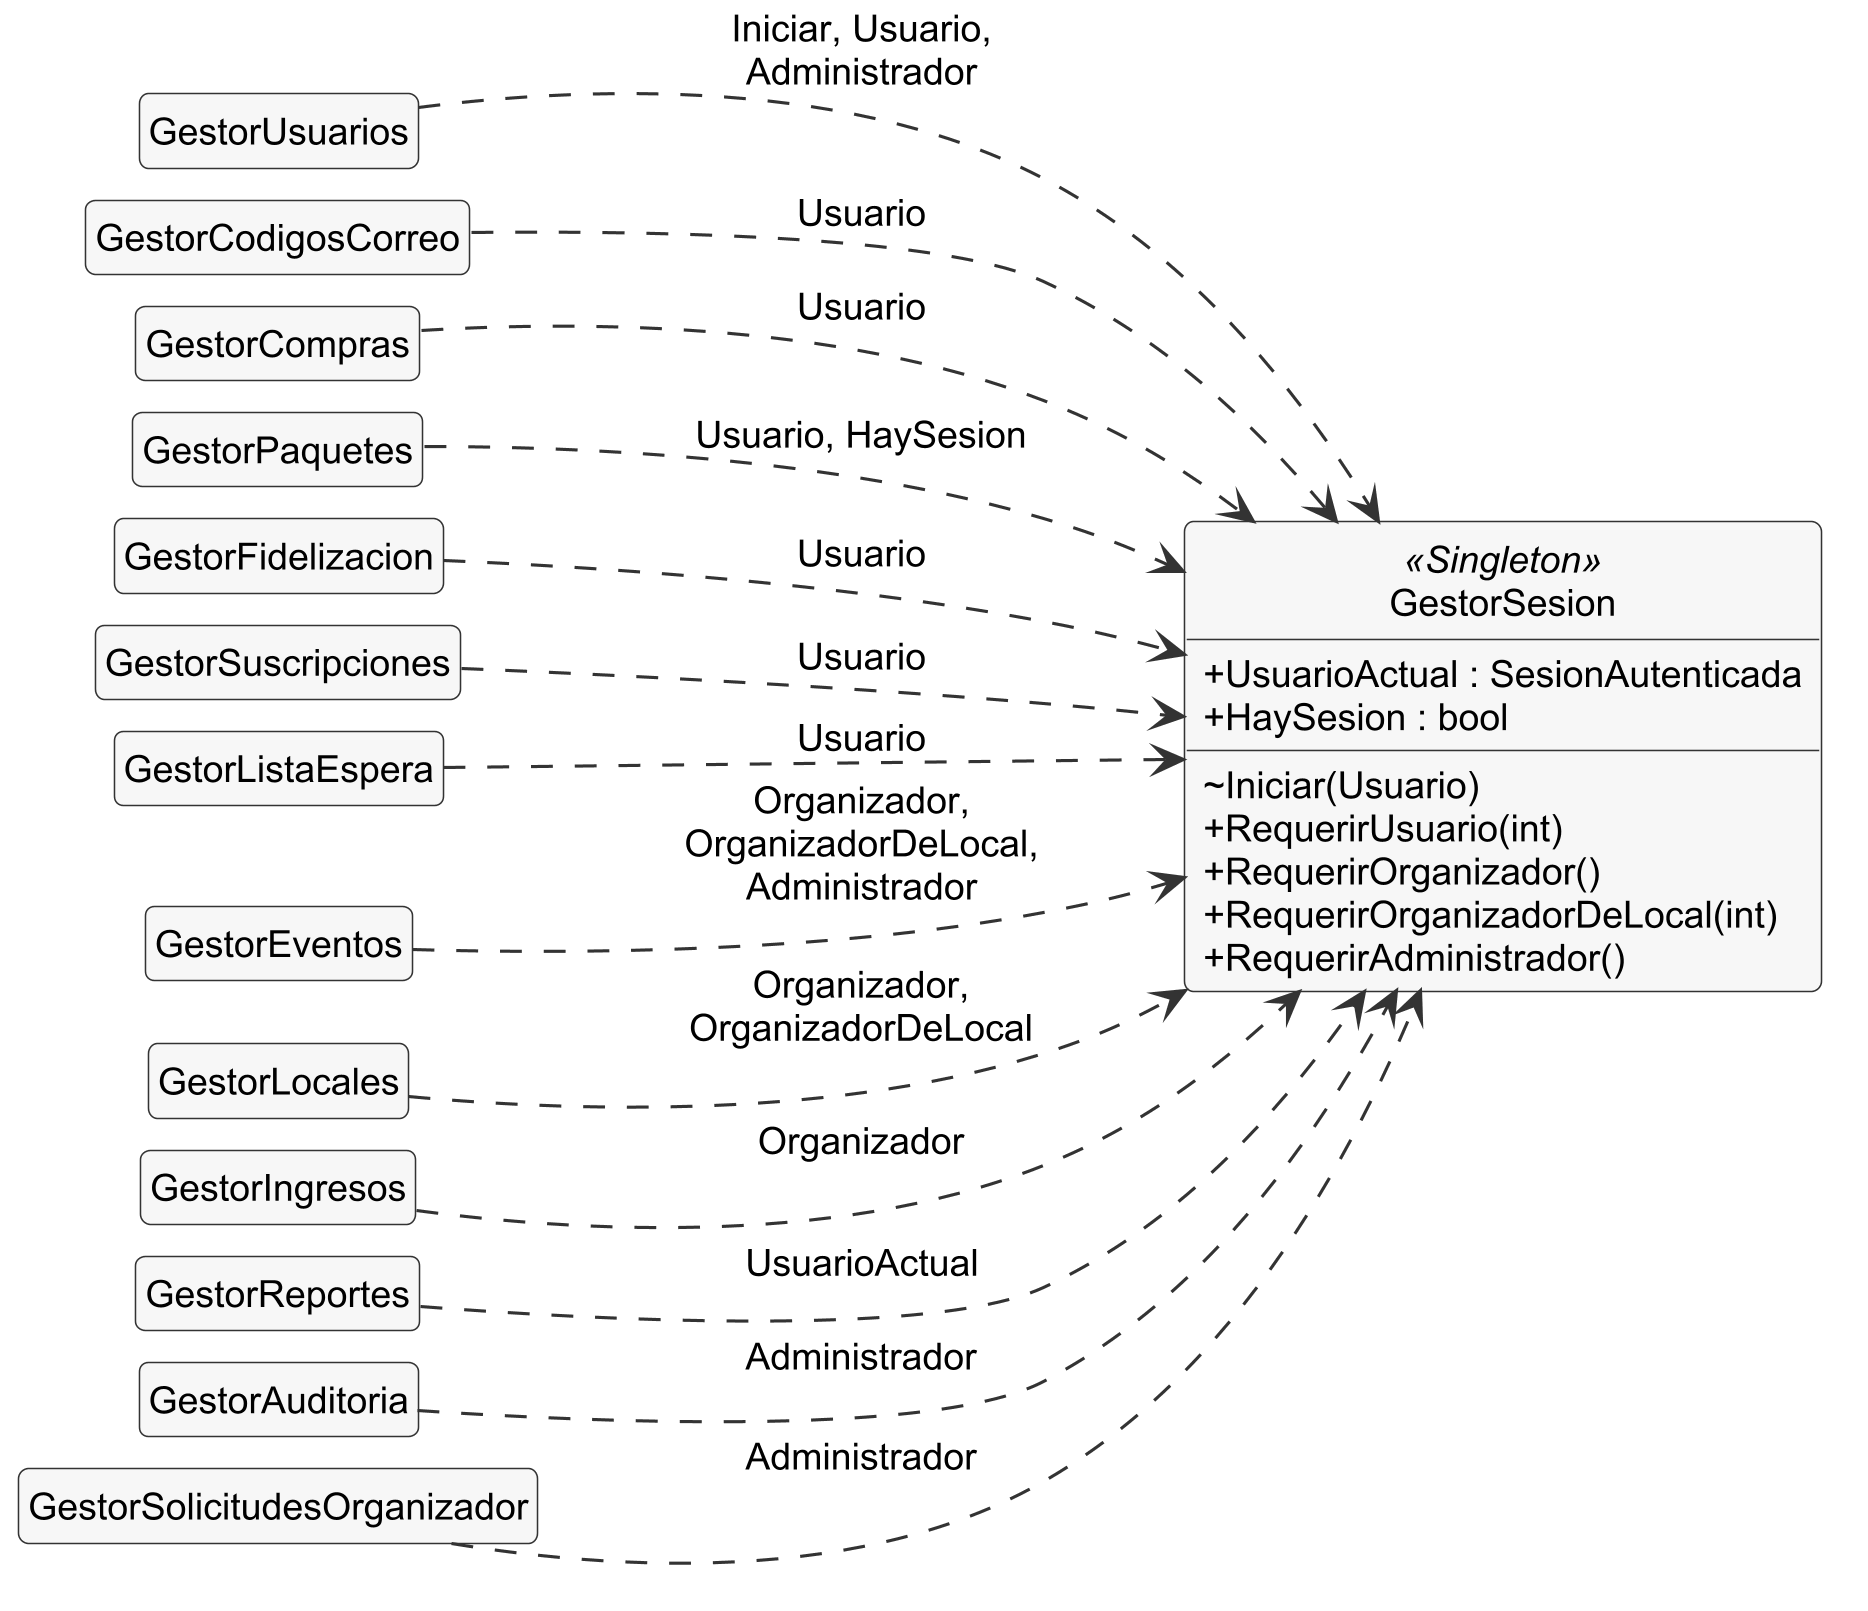
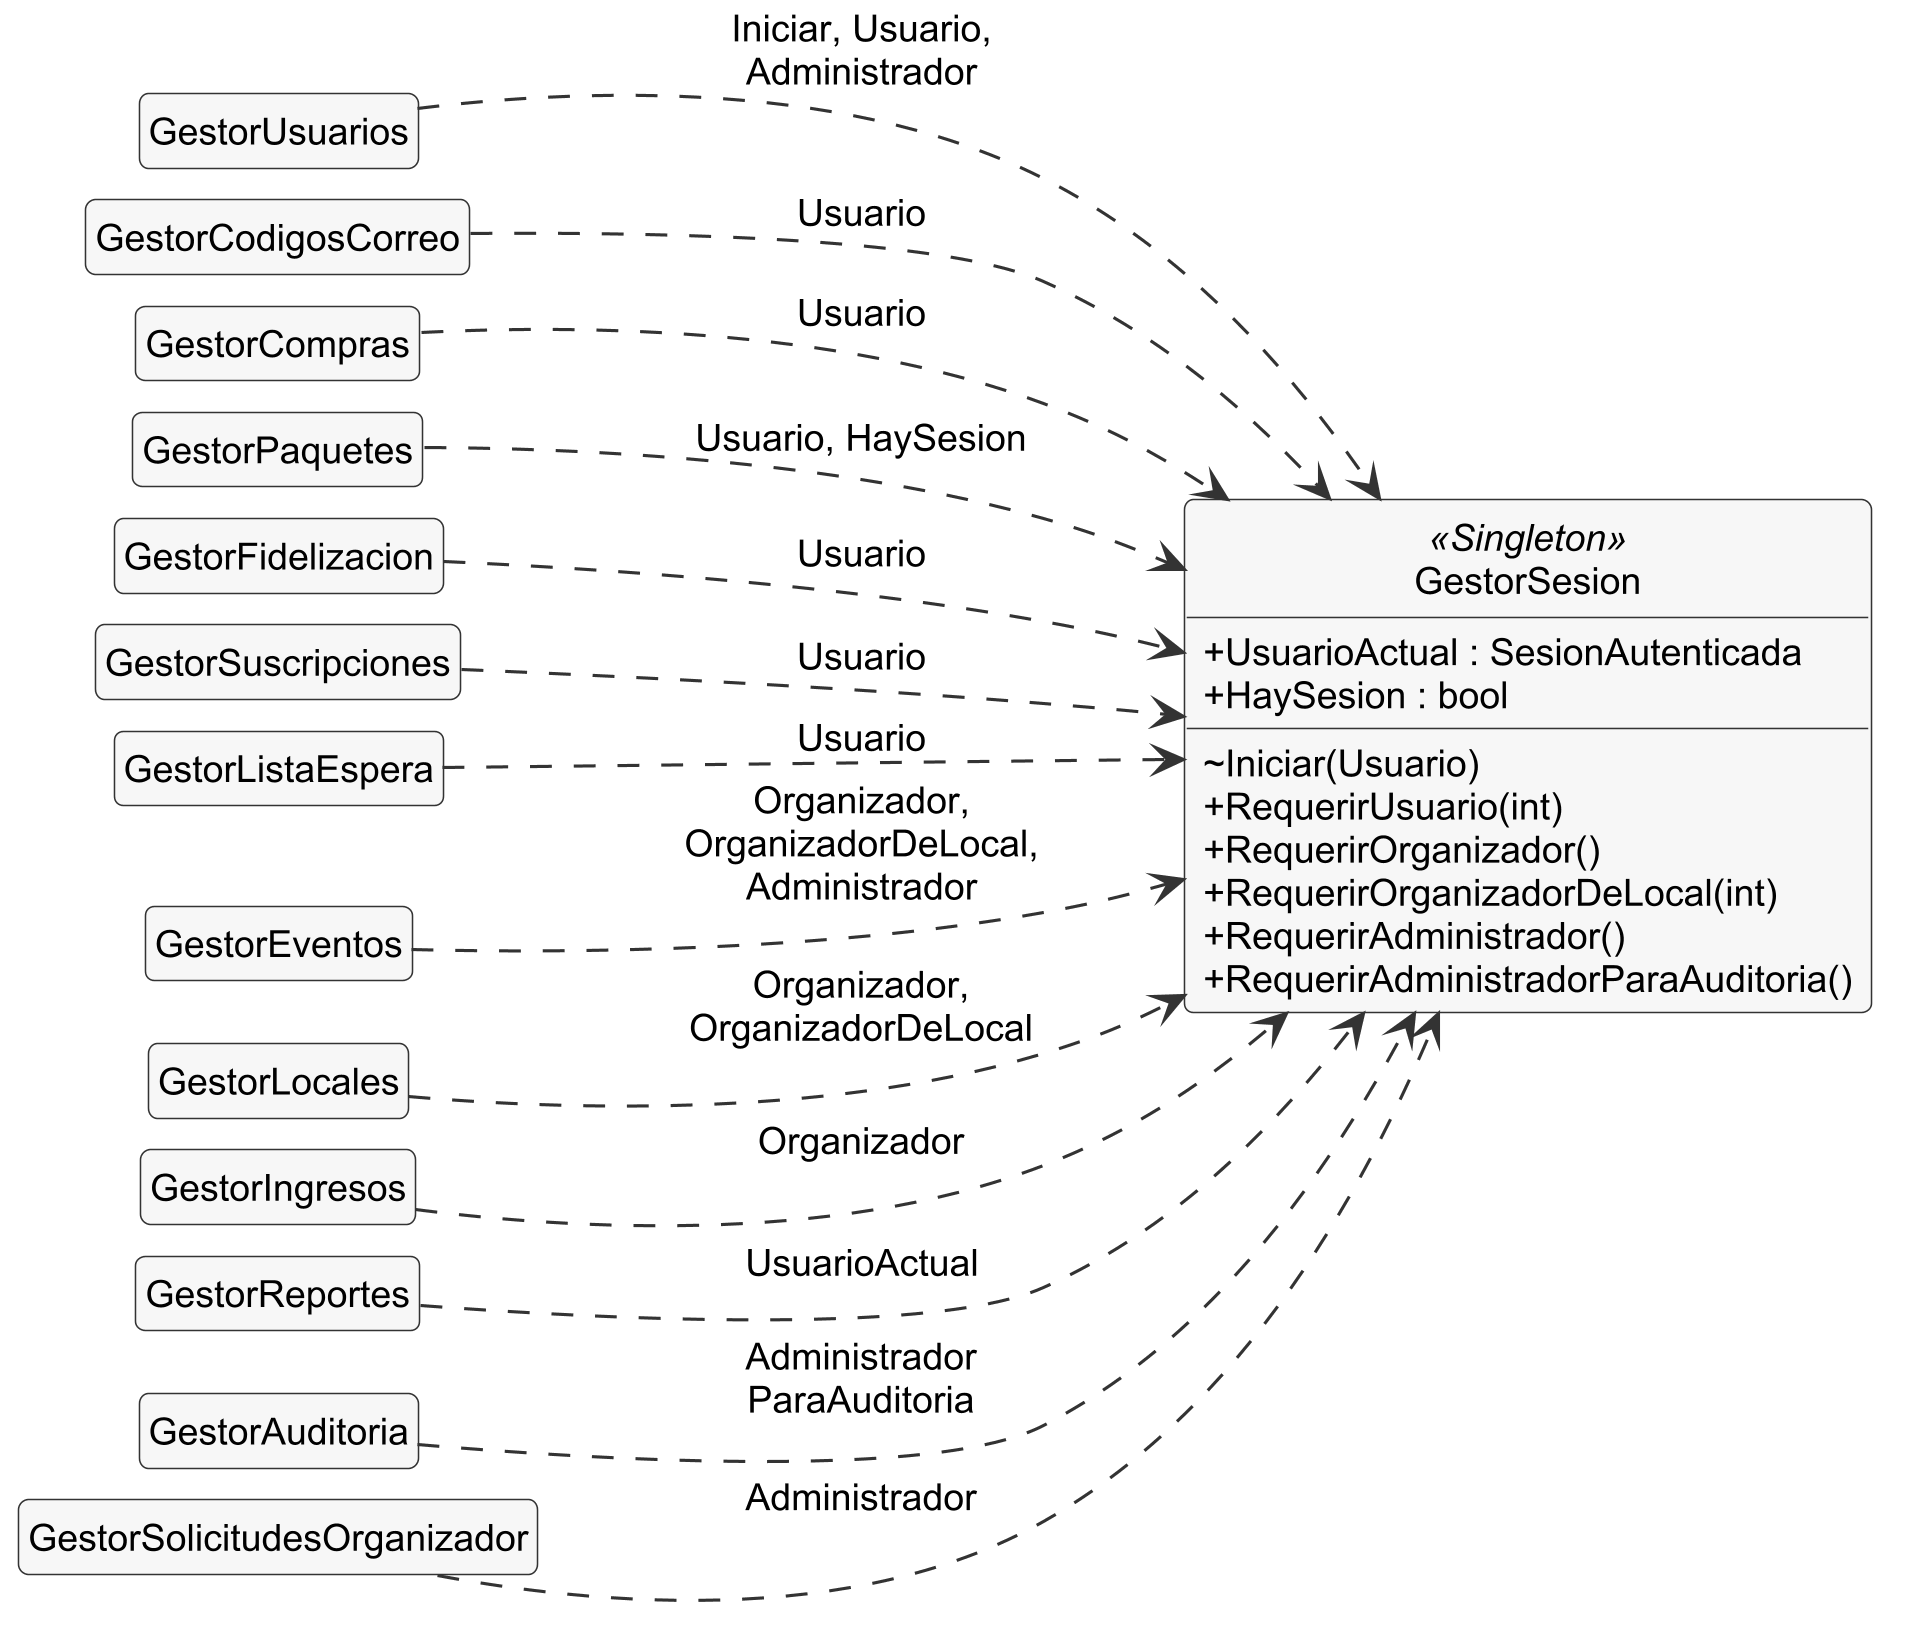
docs(diagramas): RN-45 en la consulta de auditoría y FK del dueño del local
- Vistas 5b, 6 y 6b con RequerirAdministradorParaAuditoria (2ffca70); CU-20 con su mensaje.
- Entidad-relación, vista 1: Usuario–Locales continua con FK_Locales_Propietario (script 16).

diff --git a/docs/PARA-MAXIMO-DIAGRAMAS.md b/docs/PARA-MAXIMO-DIAGRAMAS.md
@@ -170,9 +170,9 @@ perfiles; el 19/11 se agregó la vista 6b, la escritura de la auditoría.
 | 3. Dominio: entrada y seguro | `clases-3-dominio-entrada` | **16,0 cm** (13,2) | 11,8 pt |
 | 4. Negocio: gestores de la compra | `clases-4-negocio-compra` | **16,0 cm** (18,7) | 8,5 pt |
 | 5. Negocio: administración | `clases-5-negocio-administracion` | **16,0 cm** (21,9) | 9,8 pt |
-| 5b. Negocio: cuenta y seguridad | `clases-5b-negocio-cuenta-seguridad` | **16,0 cm** (19,9) | 10,7 pt |
-| 6. Negocio: verificación de identidad, perfil y pertenencia | `clases-6-autorizacion` | **16,0 cm** (13,8) | 9,1 pt |
-| 6b. Negocio: escritura de la auditoría | `clases-6b-auditoria` | **16,0 cm** (12,7) | 9,2 pt |
+| 5b. Negocio: cuenta y seguridad | `clases-5b-negocio-cuenta-seguridad` | **16,0 cm** (20,3) | 10,7 pt |
+| 6. Negocio: verificación de identidad, perfil y pertenencia | `clases-6-autorizacion` | **16,0 cm** (13,7) | 8,8 pt |
+| 6b. Negocio: escritura de la auditoría | `clases-6b-auditoria` | **16,0 cm** (13,1) | 9,2 pt |
 | 7. Datos: repositorios | `clases-7-datos` | **14,3 cm** (23,0, página entera) | 8,9 pt |
 
 El fuente de cada una es `fuentes/<nombre>.puml` y la imagen, `<nombre>.png`.
@@ -271,7 +271,8 @@ sí con líneas: sus dependencias están en la tabla de abajo.
 | GestorLocales | `RequerirOrganizador`, `RequerirOrganizadorDeLocal` | Solo el Organizador, sobre sus locales (RN-48, RN-49) |
 | GestorIngresos | `RequerirOrganizador` | Solo el Organizador (RN-48); la pertenencia del evento se verifica después (RN-49) |
 | GestorReportes | `UsuarioActual` | Alcance según el perfil: el Organizador ve sus eventos y el Administrador, todos (RN-34) |
-| GestorAuditoria, GestorSolicitudesOrganizador | `RequerirAdministrador` | Solo el Administrador consulta la auditoría y revisa solicitudes (RN-53) |
+| GestorAuditoria | `RequerirAdministradorParaAuditoria` | Solo el Administrador consulta la auditoría (RN-45). Es una verificación aparte para que el rechazo cite RN-45 y no RN-34 |
+| GestorSolicitudesOrganizador | `RequerirAdministrador` | Solo el Administrador revisa las solicitudes (RN-53) |
 
 **Dependencias que no se dibujan, para no saturar las vistas.** Todas son dependencias de uso, que
 salen de llamadas `X.Instance.Operacion`:
@@ -296,7 +297,7 @@ multiplicidad:
 | Desde | Hacia | De dónde sale en el código |
 |---|---|---|
 | GestorUsuarios, GestorCodigosCorreo, GestorCompras, GestorEventos, GestorIngresos | GestorAuditoria (`Registrar`) | `GestorAuditoria.Instance.Registrar(…)`: inicio de sesión y cambio de contraseña; emisión de códigos y recuperación, exitosa o rechazada; compras y devoluciones; gestión de eventos; ingresos |
-| GestorAuditoria | GestorSesion (`UsuarioActual`, `RequerirAdministrador`) | `Registrar` toma el autor de `UsuarioActual`; `Consultar` llama a `RequerirAdministrador` |
+| GestorAuditoria | GestorSesion (`UsuarioActual`, `RequerirAdministradorParaAuditoria`) | `Registrar` toma el autor de `UsuarioActual`; `Consultar` llama a `RequerirAdministradorParaAuditoria` (RN-45) |
 
 El signo `~` es la visibilidad `internal` de C#, la misma que `GestorSesion.Iniciar` en la vista 6.
 En la recuperación de la contraseña no hay sesión: el autor que registra `GestorCodigosCorreo` es
@@ -512,7 +513,7 @@ Cuatro vistas, regeneradas el 18/11 con las veinte tablas de `BaseDatos/01-esque
 
 | Vista | Fuente e imagen (`docs/diagramas/…`) | Insertar a | Letra impresa |
 |---|---|---|---|
-| 1. Usuarios y catálogo | `er-1-usuarios-catalogo` | **13,7 cm** (23,0 de alto, página entera) | 9,0 pt |
+| 1. Usuarios y catálogo | `er-1-usuarios-catalogo` | **16,0 cm** (21,6 de alto, página entera) | 8,5 pt |
 | 2. Compra, pago y entradas | `er-2-compras` | **14,6 cm** (23,0 de alto, página entera) | 9,3 pt |
 | 3. Suscripciones, lista de espera y parámetros | `er-3-suscripciones-espera` | **12,7 cm** (13,9 de alto) | 12,0 pt |
 | 4. Seguridad de la cuenta, auditoría y organizadores | `er-4-seguridad-organizadores` | **16,0 cm** (14,4 de alto) | 9,4 pt |
@@ -558,10 +559,12 @@ en orden.
 > que la entrada no se descontara de la capacidad, una sobreventa. Por eso la columna es
 > obligatoria y solo admite el valor 1.
 >
-> Dos vínculos con Usuario se dibujan con línea punteada porque no tienen clave foránea
-> declarada. El dueño de un local (`Locales.PropietarioID`) viene del esquema original. El autor
-> de un registro de auditoría (`Auditoria.UsuarioID`) puede no existir: el registro conserva el
-> correo de un intento de inicio de sesión aunque la cuenta no exista.
+> Un vínculo con Usuario se dibuja con línea punteada porque no tiene clave foránea declarada: el
+> autor de un registro de auditoría (`Auditoria.UsuarioID`) puede no existir, porque el registro
+> conserva el correo de un intento de inicio de sesión aunque la cuenta no exista. El dueño de un
+> local (`Locales.PropietarioID`) tiene su clave foránea desde la versión 2.6
+> (`FK_Locales_Propietario`, RN-49). Apunta a `Usuario.ID`: la base garantiza que el dueño
+> exista, y el negocio, que sea un Organizador (RN-48).
 
 **Restricciones que no entran en la figura** (van en el texto o en una tabla debajo):
 
@@ -589,7 +592,7 @@ en orden.
 | 1 | Usuario — Cliente | 1 : 0..1 | `Cliente.ID` → `Usuario.ID` (también PK) | obligatoria |
 | 1 | Usuario — Propietario | 1 : 0..1 | `Propietario.ID` → `Usuario.ID` (también PK) | obligatoria |
 | 1 | Usuario — Administrador | 1 : 0..1 | `Administrador.ID` → `Usuario.ID` (también PK) | obligatoria |
-| 1 | Propietario — Locales | 1 : 0..* | `Locales.PropietarioID` **sin FK declarada** (línea punteada) | `NOT NULL` |
+| 1 | Usuario — Locales | 1 : 0..* | `FK_Locales_Propietario`: `Locales.PropietarioID` → `Usuario.ID` (script 16) | `NOT NULL` |
 | 1 | Locales — Eventos | 1 : 0..* | `Eventos.LocalID` | `NOT NULL` |
 | 1 | Eventos — Sectores | 1 : 0..* | `Sectores.EventoID` | `NOT NULL` |
 | 1 | Eventos — ServiciosEvento — Servicios | N : M | PK compuesta `(ID_Evento, ID_Servicio)` | — |

diff --git a/docs/AUDITORIA-DOCUMENTO-CODIGO.md b/docs/AUDITORIA-DOCUMENTO-CODIGO.md
@@ -2011,7 +2011,7 @@ movimientos con estos filtros. Probá ampliar el período.».
 - El registro no se modifica: la consulta es de solo lectura.
 
 **Regla:** solo el Administrador de la plataforma consulta el registro (RN-45). Si otro perfil
-llega a la consulta, el sistema la rechaza con «Esta operación es solo para el Administrador».
+llega a la consulta, el sistema la rechaza con «Solo el Administrador puede consultar la auditoría.»
 
 ---
 
